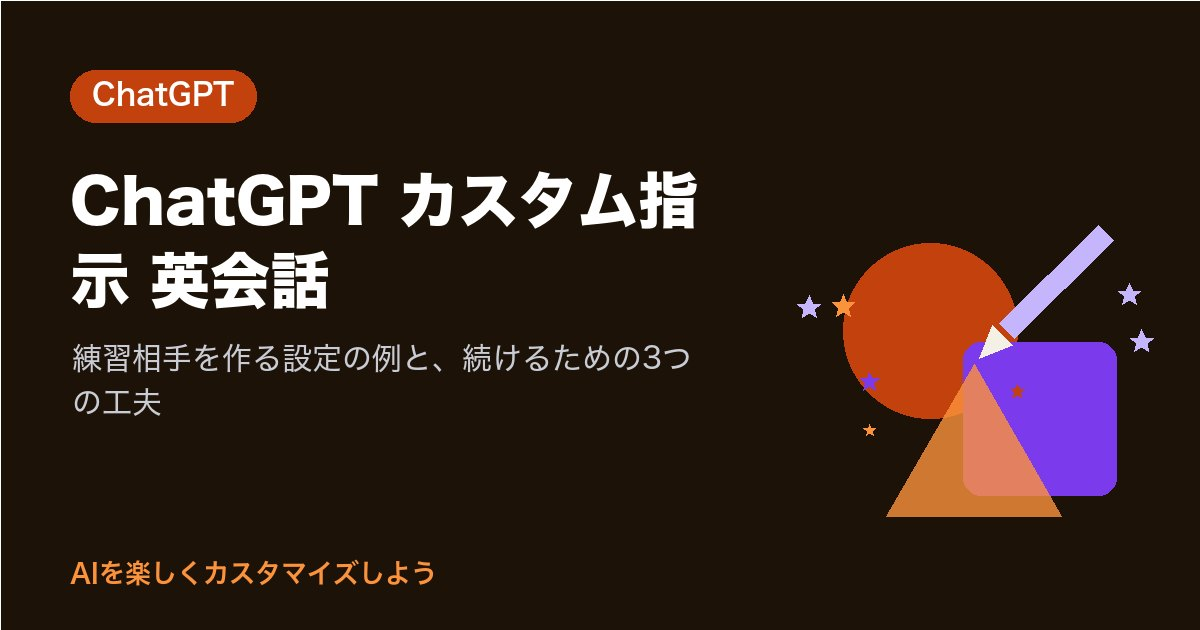
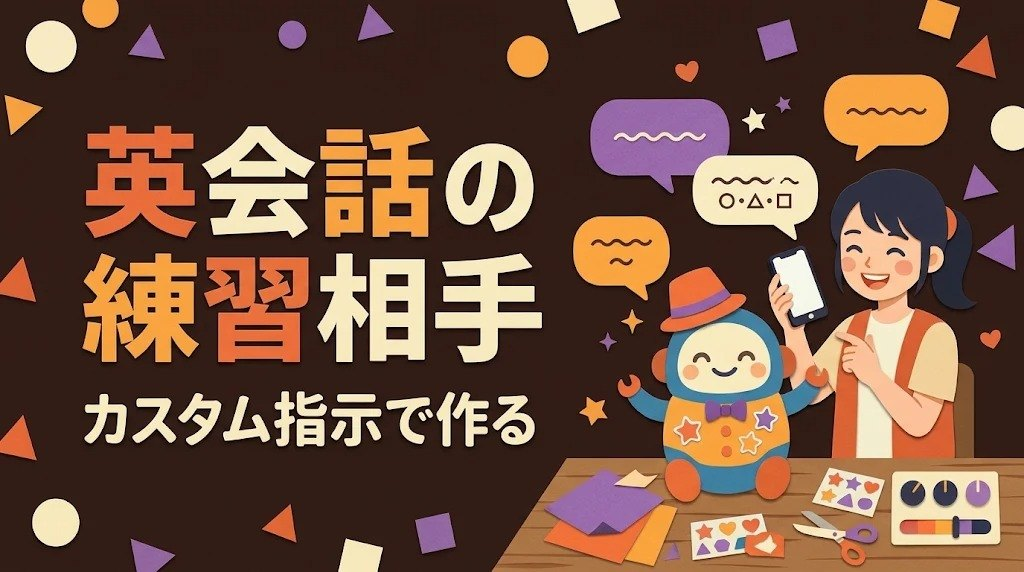
Use Gemini-made eyecatch images matching the header

diff --git a/docs/articles/chatgpt-english-partner.html b/docs/articles/chatgpt-english-partner.html
@@ -227,7 +227,7 @@ article p strong,article li strong,article td strong{font-weight:800;color:var(-
 <script>window.dataLayer=window.dataLayer||[];function gtag(){dataLayer.push(arguments);}gtag('js',new Date());gtag('config','G-EHWF25C1RB');</script><script type="application/ld+json">{"@context": "https://schema.org", "@type": "Article", "headline": "ChatGPT カスタム指示 英会話｜練習相手を作る設定の例と、続けるための3つの工夫", "description": "ChatGPTのカスタム指示で英会話の練習相手を作る方法を、2026年11月18日に公式ヘルプで確かめた設定場所とあわせて紹介します。コピペできる指示の例、レベルの合わせ方、直してほしい度合いの決め方、向かない場面も整理しました。", "datePublished": "2026-11-18", "image": "https://masabee1029.github.io/ai-customize-fun/img/articles/chatgpt-english-partner.jpg", "author": {"@type": "Person", "name": "運営者", "url": "https://masabee1029.github.io/ai-customize-fun/about.html"}, "publisher": {"@type": "Organization", "name": "AIを楽しくカスタマイズしよう"}, "mainEntityOfPage": "https://masabee1029.github.io/ai-customize-fun/articles/chatgpt-english-partner.html"}</script><script type="application/ld+json">{"@context": "https://schema.org", "@type": "BreadcrumbList", "itemListElement": [{"@type": "ListItem", "position": 1, "name": "ホーム", "item": "https://masabee1029.github.io/ai-customize-fun/index.html"}, {"@type": "ListItem", "position": 2, "name": "ChatGPT", "item": "https://masabee1029.github.io/ai-customize-fun/category/chatgpt.html"}, {"@type": "ListItem", "position": 3, "name": "ChatGPT カスタム指示 英会話｜練習相手を作る設定の例と、続けるための3つの工夫", "item": "https://masabee1029.github.io/ai-customize-fun/articles/chatgpt-english-partner.html"}]}</script></head><body>
 <header><div class="wrap"><div class="top"><a class="logo" href="../index.html">AIを<span>楽しく</span>カスタマイズしよう</a><span class="tagline">4つのAIを自分好みに</span></div>
 <nav class="gnav"><a href="../index.html">ホーム</a><a href="../category/chatgpt.html" class="on">ChatGPT</a><a href="../category/gemini.html">Gemini</a><a href="../category/claude.html">Claude</a><a href="../category/copilot.html">Copilot</a><a href="../category/anim.html">動くグラフ</a></nav></div></header>
-<div class="wrap"><div class="layout"><main><div class="crumb"><a href="../index.html">ホーム</a> ＞ <a href="../category/chatgpt.html">ChatGPT</a> ＞ ChatGPT カスタム指示 英会話｜練習相手を作る設定の例と、続けるための3つの工夫</div><article><a class="tag" href="../category/chatgpt.html">ChatGPT</a><span class="date">2026-11-18</span><h1>ChatGPT カスタム指示 英会話｜練習相手を作る設定の例と、続けるための3つの工夫</h1><p class="prline">※この記事はプロモーション（広告）を含みます</p><img class="eyecatch" src="../img/articles/chatgpt-english-partner.jpg" alt="ChatGPT カスタム指示 英会話｜練習相手を作る設定の例と、続けるための3つの工夫（図形と文字で作ったイメージ画像）"><div class="lead"><strong>この記事でわかること</strong>ChatGPTのカスタム指示で英会話の練習相手を作る方法を、2026年11月18日に公式ヘルプで確かめた設定場所とあわせて紹介します。コピペできる指示の例、レベルの合わせ方、直してほしい度合いの決め方、向かない場面も整理しました。</div><p>英語を話す練習がしたいのに、「間違えるのが恥ずかしくて」アプリを閉じてしまったことはありませんか。<br>ChatGPTのカスタム指示に<strong>「あなたは私の英会話の練習相手です」と書いておくと、新しいチャットを開くたびに、同じ練習相手が待っていてくれます</strong>。この記事では、設定する場所と、そのまま使える指示の例、続けるための工夫を紹介します。</p>
+<div class="wrap"><div class="layout"><main><div class="crumb"><a href="../index.html">ホーム</a> ＞ <a href="../category/chatgpt.html">ChatGPT</a> ＞ ChatGPT カスタム指示 英会話｜練習相手を作る設定の例と、続けるための3つの工夫</div><article><a class="tag" href="../category/chatgpt.html">ChatGPT</a><span class="date">2026-11-18</span><h1>ChatGPT カスタム指示 英会話｜練習相手を作る設定の例と、続けるための3つの工夫</h1><p class="prline">※この記事はプロモーション（広告）を含みます</p><img class="eyecatch" src="../img/articles/chatgpt-english-partner.jpg" alt="AIで作成したイメージ画像：ChatGPT カスタム指示 英会話｜練習相手を作る設定の例と、続けるための3つの工夫"><div class="lead"><strong>この記事でわかること</strong>ChatGPTのカスタム指示で英会話の練習相手を作る方法を、2026年11月18日に公式ヘルプで確かめた設定場所とあわせて紹介します。コピペできる指示の例、レベルの合わせ方、直してほしい度合いの決め方、向かない場面も整理しました。</div><p>英語を話す練習がしたいのに、「間違えるのが恥ずかしくて」アプリを閉じてしまったことはありませんか。<br>ChatGPTのカスタム指示に<strong>「あなたは私の英会話の練習相手です」と書いておくと、新しいチャットを開くたびに、同じ練習相手が待っていてくれます</strong>。この記事では、設定する場所と、そのまま使える指示の例、続けるための工夫を紹介します。</p>
 <p><strong>確認日：2026年11月18日</strong>（公式のヘルプで確認。画面や名前は変わることがあります）</p>
 <p><strong>この記事でわかること：</strong> カスタム指示を書く場所、英会話の練習相手になってもらう指示の例、続けるための3つの工夫。結論は、<strong>最初は「やさしい英語で・短く・1回に1つだけ質問」の3つだけ書けば十分</strong>ということです。</p>
 <div class="toc"><strong>目次</strong><ol><li><a href="#s1">練習相手に向いている理由｜何度でも、いつでも、恥ずかしくない</a></li><li><a href="#s2">設定する場所</a></li><li><a href="#s3">そのまま使える指示の例</a></li><li><a href="#s4">続けるための3つの工夫</a></li><li><a href="#s5">向かない人・注意点</a></li><li><a href="#s6">確かめた公式の情報</a></li><li><a href="#s7">まとめ</a></li></ol></div><div class="picks"><div class="picks-h">この記事で役立つ本・道具</div><div class="pick"><div><strong>ChatGPTの入門書</strong><span>設定の前に全体像を</span></div><a class="btn amz" rel="nofollow sponsored noopener" target="_blank" href="https://www.amazon.co.jp/s?k=ChatGPT+%E6%9C%AC+%E5%85%A5%E9%96%80&amp;tag=masabee-custom-22">Amazon</a><a class="btn rkt" rel="nofollow sponsored noopener" target="_blank" href="https://hb.afl.rakuten.co.jp/hgc/151a9587.4904a96c.151a9588.d0d13240/_RTLink155222/?pc=https%3A%2F%2Fsearch.rakuten.co.jp%2Fsearch%2Fmall%2FChatGPT%2520%25E6%259C%25AC%2520%25E5%2585%25A5%25E9%2596%2580%2F">楽天</a></div><div class="pick"><div><strong>プロンプトの本</strong><span>カスタム指示の書き方に効く</span></div><a class="btn amz" rel="nofollow sponsored noopener" target="_blank" href="https://www.amazon.co.jp/s?k=%E3%83%97%E3%83%AD%E3%83%B3%E3%83%97%E3%83%88+%E6%9C%AC&amp;tag=masabee-custom-22">Amazon</a><a class="btn rkt" rel="nofollow sponsored noopener" target="_blank" href="https://hb.afl.rakuten.co.jp/hgc/151a9587.4904a96c.151a9588.d0d13240/_RTLink155222/?pc=https%3A%2F%2Fsearch.rakuten.co.jp%2Fsearch%2Fmall%2F%25E3%2583%2597%25E3%2583%25AD%25E3%2583%25B3%25E3%2583%2597%25E3%2583%2588%2520%25E6%259C%25AC%2F">楽天</a></div></div><h2 id="s1">練習相手に向いている理由｜何度でも、いつでも、恥ずかしくない</h2>
@@ -252,7 +252,7 @@ article p strong,article li strong,article td strong{font-weight:800;color:var(-
 <div class="picks"><div class="picks-h">次の一歩に役立つ本・道具</div><div class="pick"><div><strong>ChatGPTの入門書</strong><span>設定の前に全体像を</span></div><a class="btn amz" rel="nofollow sponsored noopener" target="_blank" href="https://www.amazon.co.jp/s?k=ChatGPT+%E6%9C%AC+%E5%85%A5%E9%96%80&amp;tag=masabee-custom-22">Amazon</a><a class="btn rkt" rel="nofollow sponsored noopener" target="_blank" href="https://hb.afl.rakuten.co.jp/hgc/151a9587.4904a96c.151a9588.d0d13240/_RTLink155222/?pc=https%3A%2F%2Fsearch.rakuten.co.jp%2Fsearch%2Fmall%2FChatGPT%2520%25E6%259C%25AC%2520%25E5%2585%25A5%25E9%2596%2580%2F">楽天</a></div><div class="pick"><div><strong>プロンプトの本</strong><span>カスタム指示の書き方に効く</span></div><a class="btn amz" rel="nofollow sponsored noopener" target="_blank" href="https://www.amazon.co.jp/s?k=%E3%83%97%E3%83%AD%E3%83%B3%E3%83%97%E3%83%88+%E6%9C%AC&amp;tag=masabee-custom-22">Amazon</a><a class="btn rkt" rel="nofollow sponsored noopener" target="_blank" href="https://hb.afl.rakuten.co.jp/hgc/151a9587.4904a96c.151a9588.d0d13240/_RTLink155222/?pc=https%3A%2F%2Fsearch.rakuten.co.jp%2Fsearch%2Fmall%2F%25E3%2583%2597%25E3%2583%25AD%25E3%2583%25B3%25E3%2583%2597%25E3%2583%2588%2520%25E6%259C%25AC%2F">楽天</a></div></div><div class="picks"><div class="picks-h">あわせて使えるサービス（PR）</div><div class="pick"><div><strong>PLAUD（AIボイスレコーダー）</strong><span>会議を録るだけで、AIが文字起こしと要約をしてくれる</span></div><a class="btn vc" rel="nofollow sponsored noopener" target="_blank" href="https://px.a8.net/svt/ejp?a8mat=4BELTL+7QRI2+5J4W+5YRHE">公式ストアを見る</a><img src="https://www12.a8.net/0.gif?a8mat=4BELTL+7QRI2+5J4W+5YRHE" height="1" width="1" alt="" style="border:0"></div><div class="pick"><div><strong>ConoHa AI Canvas</strong><span>インストールなしで、ブラウザだけでAI画像を作れる</span></div><a class="btn vc" rel="nofollow sponsored noopener" target="_blank" href="https://px.a8.net/svt/ejp?a8mat=4BELTL+BWSQI+50+7RTY1E">公式サイトを見る</a><img src="https://www11.a8.net/0.gif?a8mat=4BELTL+BWSQI+50+7RTY1E" height="1" width="1" alt="" style="border:0"></div><div class="pick"><div><strong>Notta（AI文字起こし）</strong><span>会議や講義の音声を、AIが文字起こしして議事録にする</span></div><a class="btn vc" rel="nofollow sponsored noopener" target="_blank" href="https://px.a8.net/svt/ejp?a8mat=4BENDR+2ZANU+5988+5YJRM">無料で試す</a><img src="https://www19.a8.net/0.gif?a8mat=4BENDR+2ZANU+5988+5YJRM" height="1" width="1" alt="" style="border:0"></div></div><div class="picks book"><div class="picks-h">著者の本（この連載の考え方を 1 冊に）</div><div class="book-row"><img class="book-cover" loading="lazy" src="../img/book1.jpg" alt="39歳からのAI仕事術 会社のPCで今日から使える39のプロンプト の表紙"><div class="book-txt"><strong>39歳からのAI仕事術 会社のPCで今日から使える39のプロンプト</strong><span>Copilot・ChatGPT・Gemini対応／著者 まさび／500円・Kindle Unlimited 対象</span><span class="book-note">会社のPCで、明日の朝からそのまま使える39の頼み方を1冊にまとめました。サイトとは別に書き下ろした内容です。</span><a class="btn amz" rel="nofollow sponsored noopener" target="_blank" href="https://www.amazon.co.jp/dp/B0HNZWNVM5?tag=masabee-custom-22">Amazonで見る（Kindle）</a></div></div></div><h2 id="s7">まとめ</h2>
 <div class="tbl"><table><tr><th>聞きたいこと</th><th>答え</th></tr><tr><td>どこに書く？</td><td>設定の「パーソナライズ」（アプリは「ChatGPTをカスタマイズ」）の「カスタム指示」欄</td></tr><tr><td>何を書く？</td><td>やさしい英語・3文以内・質問は1つだけ</td></tr><tr><td>間違いは？</td><td>会話を止めず、言い換えを1つだけ</td></tr><tr><td>注意は？</td><td>個人情報や会社の機密は書かない</td></tr></table></div>
 <div class="shop"><div class="shop-name">英会話の入門書を探す</div><a class="btn amz" rel="nofollow sponsored noopener" target="_blank" href="https://www.amazon.co.jp/s?k=%E8%8B%B1%E4%BC%9A%E8%A9%B1+%E3%83%95%E3%83%AC%E3%83%BC%E3%82%BA+%E6%9C%AC+%E5%88%9D%E5%BF%83%E8%80%85&amp;tag=masabee-custom-22">Amazonで見る</a><a class="btn rkt" rel="nofollow sponsored noopener" target="_blank" href="https://hb.afl.rakuten.co.jp/hgc/151a9587.4904a96c.151a9588.d0d13240/_RTLink155222/?pc=https%3A%2F%2Fsearch.rakuten.co.jp%2Fsearch%2Fmall%2F%25E8%258B%25B1%25E4%25BC%259A%25E8%25A9%25B1%2520%25E3%2583%2595%25E3%2583%25AC%25E3%2583%25BC%25E3%2582%25BA%2520%25E6%259C%25AC%2520%25E5%2588%259D%25E5%25BF%2583%25E8%2580%2585%2F">楽天で見る</a></div>
-<p>ChatGPTを作っている方々と、この記事を読んでくださったあなたに、ありがとうございます。<br>まずは、カスタム指示の欄に「あなたは、私の英会話の練習相手です」の1行だけ書いてみませんか。<br>あなたは、英語で、まず何について話してみたいですか？</p><div class="next"><div class="next-h">今日できる次の一歩</div><p>最後まで読んでくださり、ありがとうございました。</p><p>まずは1つのAIで、あなたの呼び名か口調を1つだけ設定してみませんか。次の会話から、AIの返事が少し“あなた向け”に変わるのを感じられます。</p><p>あなたなら、AIにどんな話し方をしてほしいですか？</p></div><p class="ainote">この記事は下書きにAIを使い、内容は運営者が公式情報で確認しています。</p><script>(function(C){var R=window.matchMedia&&matchMedia("(prefers-reduced-motion: reduce)").matches;
+<p>ChatGPTを作っている方々と、この記事を読んでくださったあなたに、ありがとうございます。<br>まずは、カスタム指示の欄に「あなたは、私の英会話の練習相手です」の1行だけ書いてみませんか。<br>あなたは、英語で、まず何について話してみたいですか？</p><div class="next"><div class="next-h">今日できる次の一歩</div><p>最後まで読んでくださり、ありがとうございました。</p><p>まずは1つのAIで、あなたの呼び名か口調を1つだけ設定してみませんか。次の会話から、AIの返事が少し“あなた向け”に変わるのを感じられます。</p><p>あなたなら、AIにどんな話し方をしてほしいですか？</p></div><p class="ainote">この記事は下書きにAIを使い、内容は運営者が公式情報で確認しています。画像はAIで作成したイメージです。</p><script>(function(C){var R=window.matchMedia&&matchMedia("(prefers-reduced-motion: reduce)").matches;
 var art=document.querySelector("article");if(!art)return;
 /* 読んだ記事を覚えておく（カテゴリページの「読んだ」印に使う。この端末の中だけ。同じ github.io の別サイトと混ざらないよう、パス全体で覚える） */
 try{var RK="ax-read",RL=JSON.parse(localStorage.getItem(RK)||"[]"),me=location.pathname;if(RL.indexOf(me)<0){RL.push(me);localStorage.setItem(RK,JSON.stringify(RL.slice(-300)))}}catch(e){}
